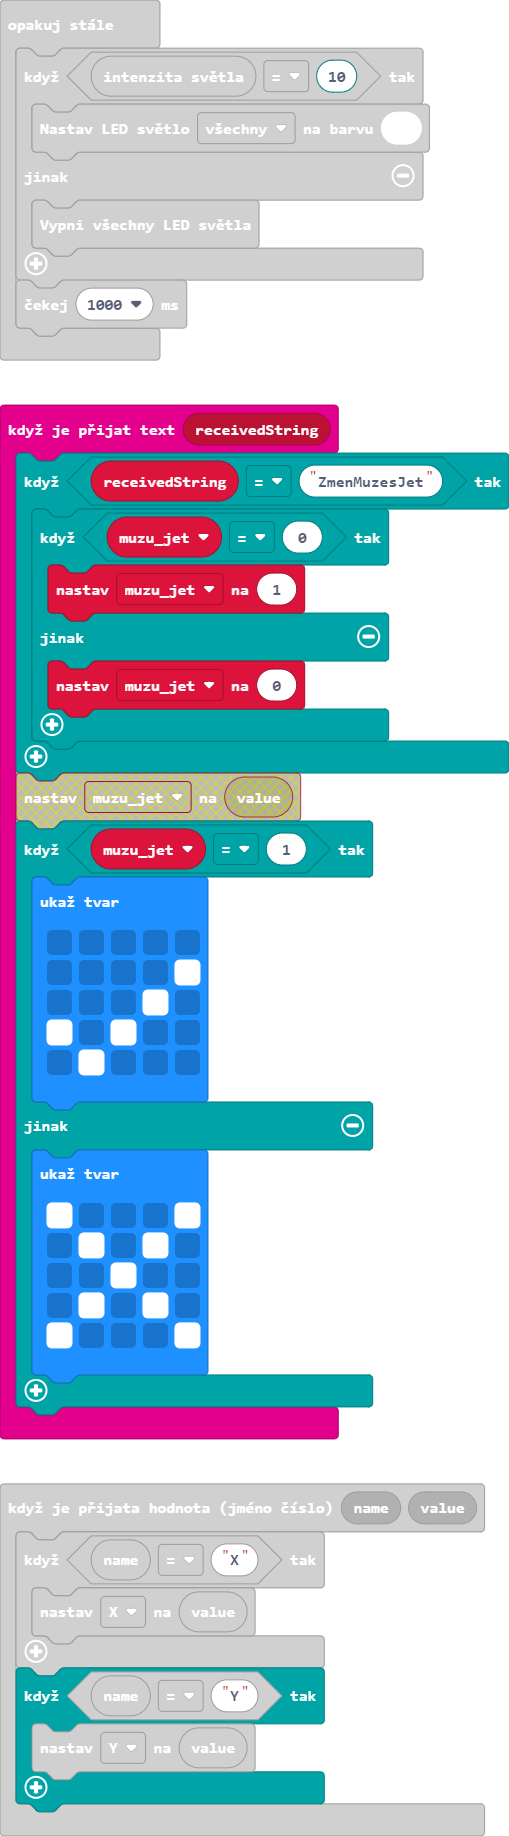
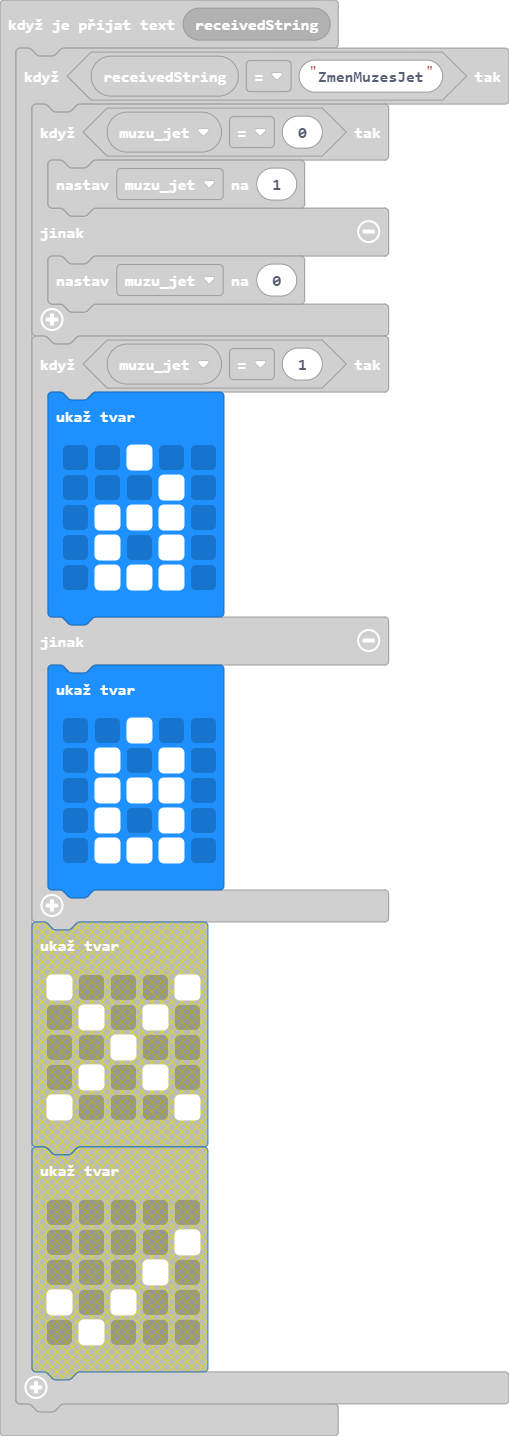
Aktualizovat main.blocks, main.ts

diff --git a/main.ts b/main.ts
@@ -10,19 +10,19 @@ radio.onReceivedString(function (receivedString) {
         }
         if (muzu_jet == 1) {
             basic.showLeds(`
-                . . . . .
-                . . . . #
+                . . # . .
                 . . . # .
-                # . # . .
-                . # . . .
+                . # # # .
+                . # . # .
+                . # # # .
                 `)
         } else {
             basic.showLeds(`
-                # . . . #
-                . # . # .
                 . . # . .
                 . # . # .
-                # . . . #
+                . # # # .
+                . # . # .
+                . # # # .
                 `)
         }
     }
